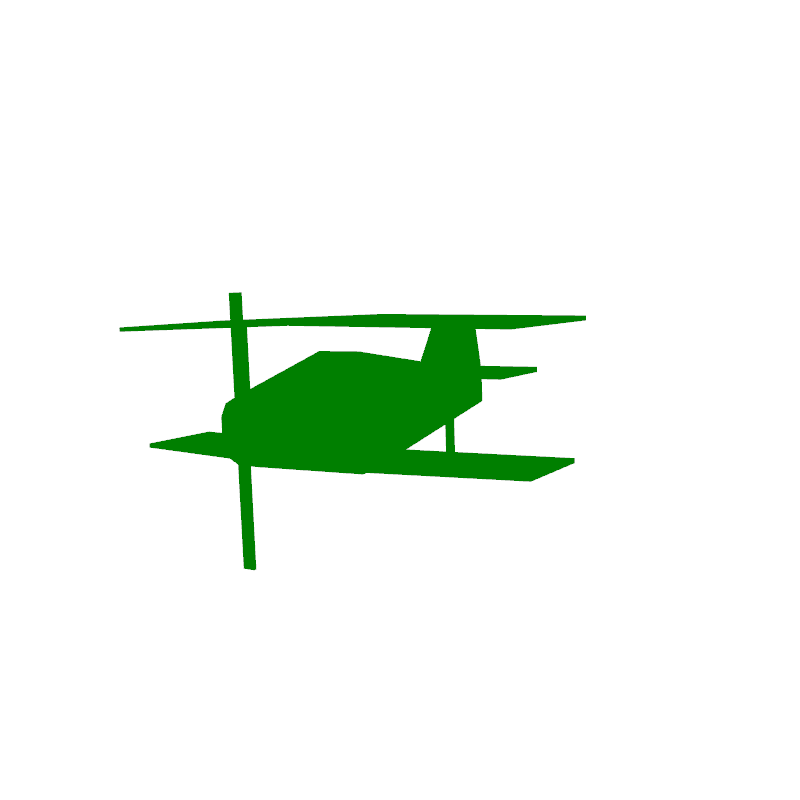
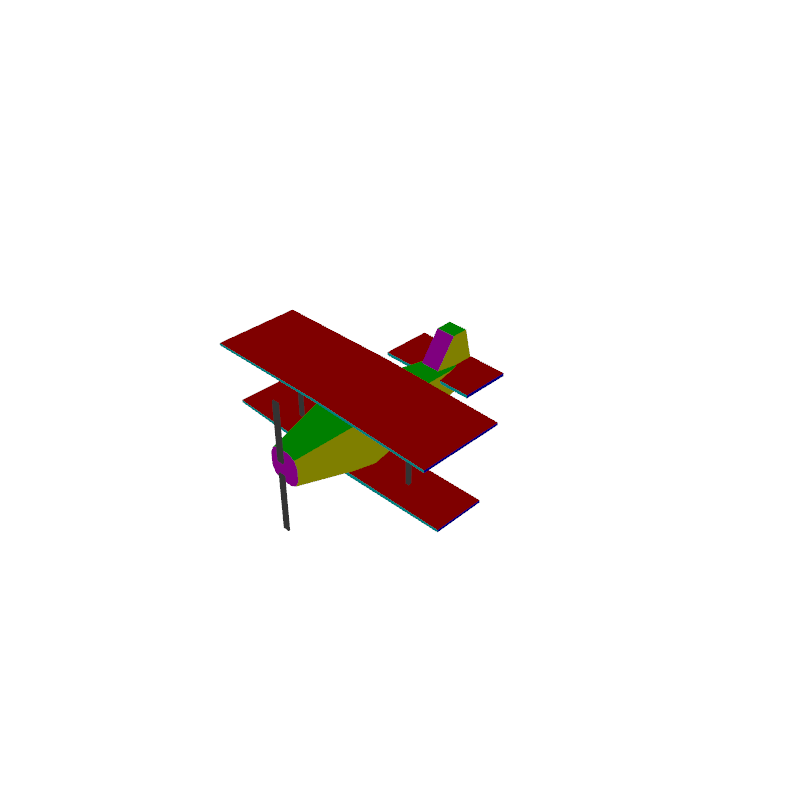
update reset view and README.md

Changed region(s): [[0.1562, 0.3438, 0.75, 0.7188]]

diff --git a/src/common/controls.cpp b/src/common/controls.cpp
@@ -55,6 +55,7 @@ GLfloat phi = 0.0f;
 float angle = 0.0;
 
 glm::vec3 position = glm::vec3(PosX, PosY, PosZ);
+glm::vec3 direction = glm::vec3(0.5f, -0.5f, -0.5f);
 
 float initialFoV = 45.0f;
 float speed = 3.0f;
@@ -69,7 +70,7 @@ void computeMatricesFromInputs()
 	double currentTime = glfwGetTime();
 	float deltaTime = float(currentTime - lastTime);
 
-	glm::vec3 direction(DirX, DirY, DirZ);
+	// glm::vec3 direction(DirX, DirY, DirZ);
 	glm::vec3 right(RightX, RightY, RightZ);
 	glm::vec3 up = glm::vec3(0.0f, 1.0f, 0.0f);
 
@@ -90,6 +91,7 @@ void computeMatricesFromInputs()
 	if (glfwGetKey(window, GLFW_KEY_R) == GLFW_PRESS)
 	{
 		position = glm::vec3(-3.0f, 3.0f, 3.0f);
+		direction = glm::vec3(0.5f, -0.5f, -0.5f);
 	}
 
 	if (glfwGetKey(window, GLFW_KEY_RIGHT) == GLFW_PRESS)

diff --git a/README.md b/README.md
@@ -52,7 +52,7 @@ $ ./main-glfw
 | J         | Rotate Kamera mengitari model pada bidang orthogonal Counter Clockwise                                                 |
 | L         | Rotate Kamera mengitari model pada bidang orthogonal Clockwise                                                         |
 | LEFT_KEY  | Rotate bidang proyeksi dengan memutar vektor yang menunjukkan arah atas  kamera pada bidang proyeksi Counter Clockwise |
-| RIGHT_KEY | Rotate bidang proyeksi dengan memutar vektor yang menunjukkan arah atas  kamera pada bidang proyeksi Counter           |
+| RIGHT_KEY | Rotate bidang proyeksi dengan memutar vektor yang menunjukkan arah atas  kamera pada bidang proyeksi Clockwise         |
 | Z         | Turn On Colour Shader                                                                                                  |
 | X         | Turn Off Colour Shader                                                                                                 |
 | R         | Reset View                                                                                                             |
